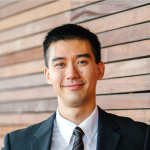
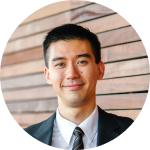
"Updated image, CSS styles for header, fonts, and tutors section, and HTML structure for tutors section"

diff --git a/index.html b/index.html
@@ -29,27 +29,27 @@
                 </ul>
                 <button class="btn">REGISTER FOR FREE</button>
             </div>
-            <p>Learn from the pros</p>
-            <div>
+            <p class="learn"><span>Learn</span> from the pros</p>
+            <div class="tutors">
                 <div>
                     <img src="/Assets/Images/1.png" alt="">
-                    <p>Philip Massey</p>
-                    <p>« Smile of the year » 2018 - 2019</p>
+                    <p class="name">Philip Massey</p>
+                    <p class="title">« Smile of the year » 2018 - 2019</p>
                 </div>
                 <div>
                     <img src="/Assets/Images/3.png" alt="">
-                    <p>Nannie Lawrence</p>
-                    <p>Best « little smile » 2017</p>
+                    <p class="name">Nannie Lawrence</p>
+                    <p class="title">Best « little smile » 2017</p>
                 </div>
                 <div>
                     <img src="/Assets/Images/2.png" alt="">
-                    <p>Bruce Walters</p>
-                    <p>Best « Friend Smile » live performance 2019</p>
+                    <p class="name">Bruce Walters</p>
+                    <p class="title">Best « Friend Smile » live performance 2019</p>
                 </div>
                 <div>
                     <img src="/Assets/Images/4.png" alt="">
-                    <p>Henry Hughes</p>
-                    <p>« 24h smiles » winner 2016 - 2019</p>
+                    <p class="name">Henry Hughes</p>
+                    <p class="title">« 24h smiles » winner 2016 - 2019</p>
                 </div>
             </div>
         </main>

diff --git a/CSS/Components/header.css b/CSS/Components/header.css
@@ -24,7 +24,7 @@
     & li a {
         text-decoration: none;
         color: var(--white);
-        font-size: var(--fs-xs);
+        /* font-size: var(--fs-xs); */
     }
 }
 
@@ -32,7 +32,7 @@
     text-align: center;
     font-size: var(--fs-xxxl);
     font-weight: 700;
-    margin-top: 80px;
+    margin-top: 5rem;
 }
 
 .heading-content ul {
@@ -42,5 +42,40 @@
     gap: 3.688rem;
     margin-top: -1.25rem;
     font-size: var(--fs-sm);
+}
+
+
+.learn {
+    text-align: center;
+    margin-top: 168px;
+    font-size: var(--fs-xl);
+    font-weight: 700;
+}
+
+span {
+    color: var(--purple);
+}
+
+.tutors {
+    display: flex;
+    justify-content: center;
+    gap: 8.125rem; 
+    margin-top: 3.75rem;
+}
+
+.tutors p {
+    text-align: center;
+    width: 9.375rem;
+}
+
+.name {
+    margin-top: 0.625rem;
+    font-size: var(--fs-md);
+    font-weight: 900;
+}
+
+.title {
+    font-style: italic;
+    font-weight: 400;
 }
 

diff --git a/CSS/global/fonts.css b/CSS/global/fonts.css
@@ -54,7 +54,7 @@
   --fs-xxs:0.875rem;
   --fs-sm: 1rem;
   --fs-md: 1.125rem;
-  --fs-lg: 1.375rem;
+  --fs-lg: 1.5rem;
   --fs-xl: 2rem;
   --fs-xxl: 3.75rem;
   --fs-xxxl: 7.5rem;
